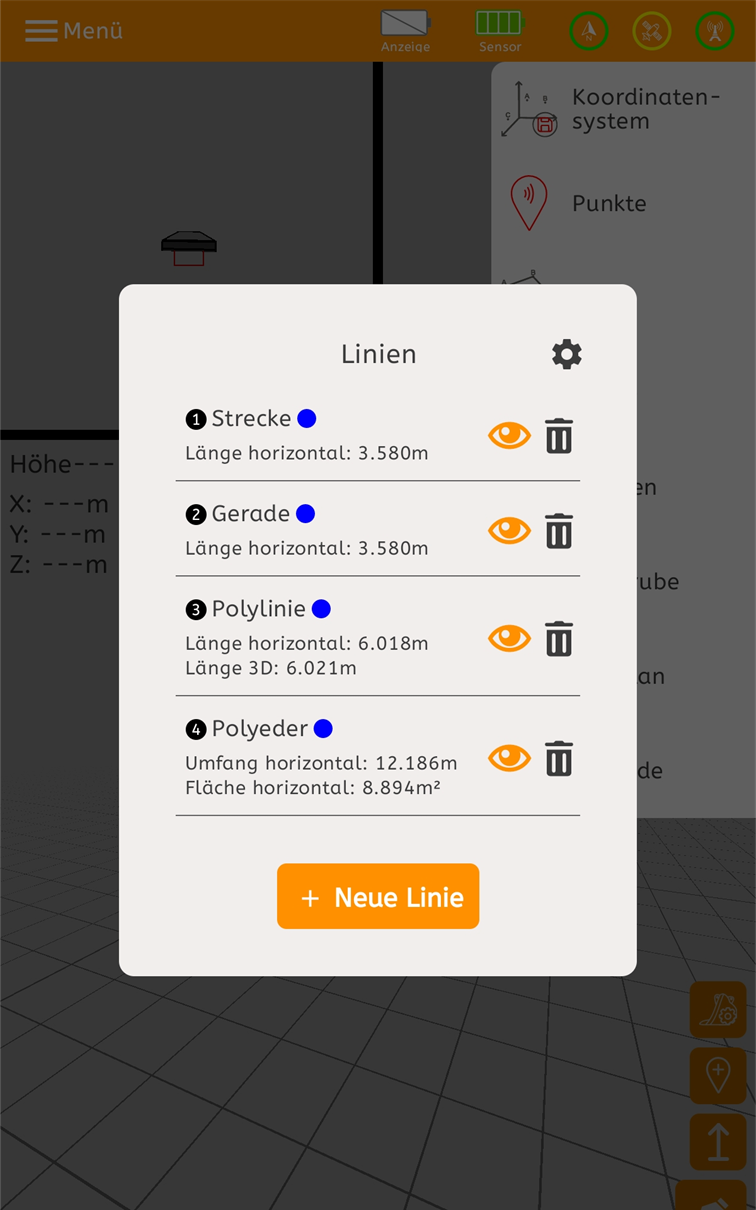
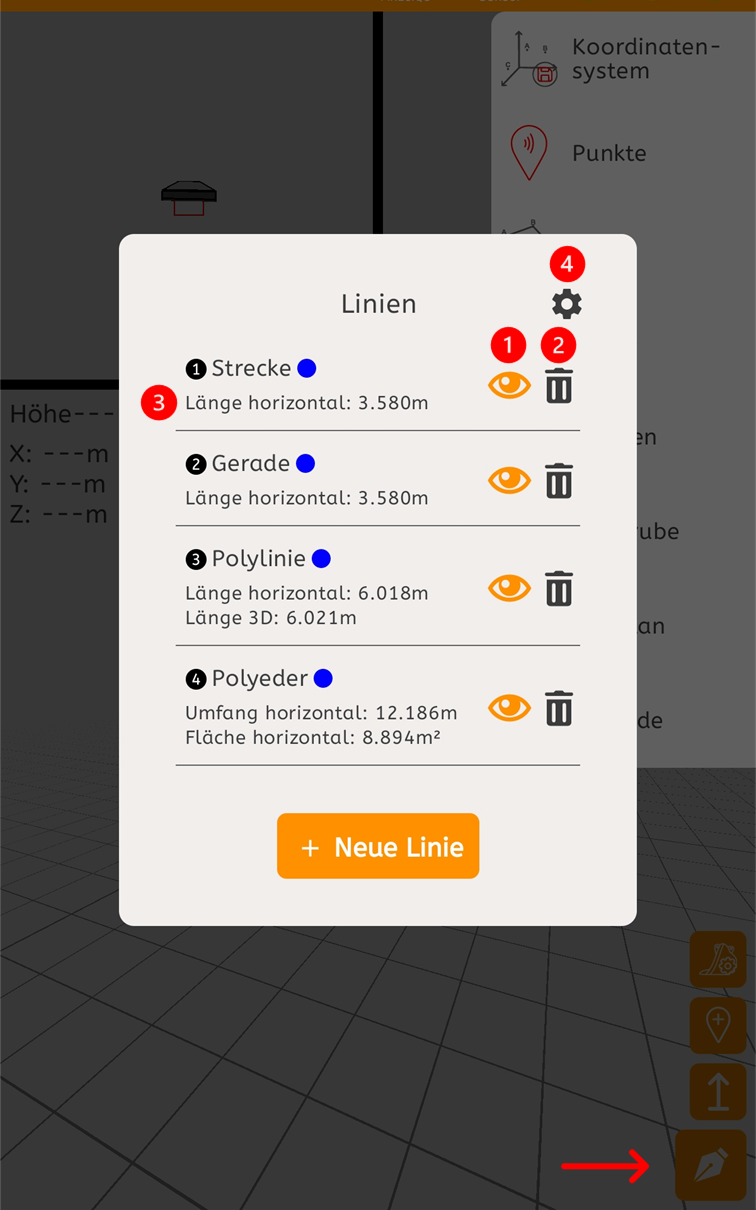
Bild Update | Linien

diff --git a/docs/Linien/Linien.md b/docs/Linien/Linien.md
@@ -24,7 +24,7 @@ Text
 
 
 <p align="center" width="100%">
-  <img width="100%" src="/images_docs/2.jpg"/>
+  <img width="100%" src="/images_docs/Screenshot (77) - Kopie.png"/>
 </p>
 
 Text
